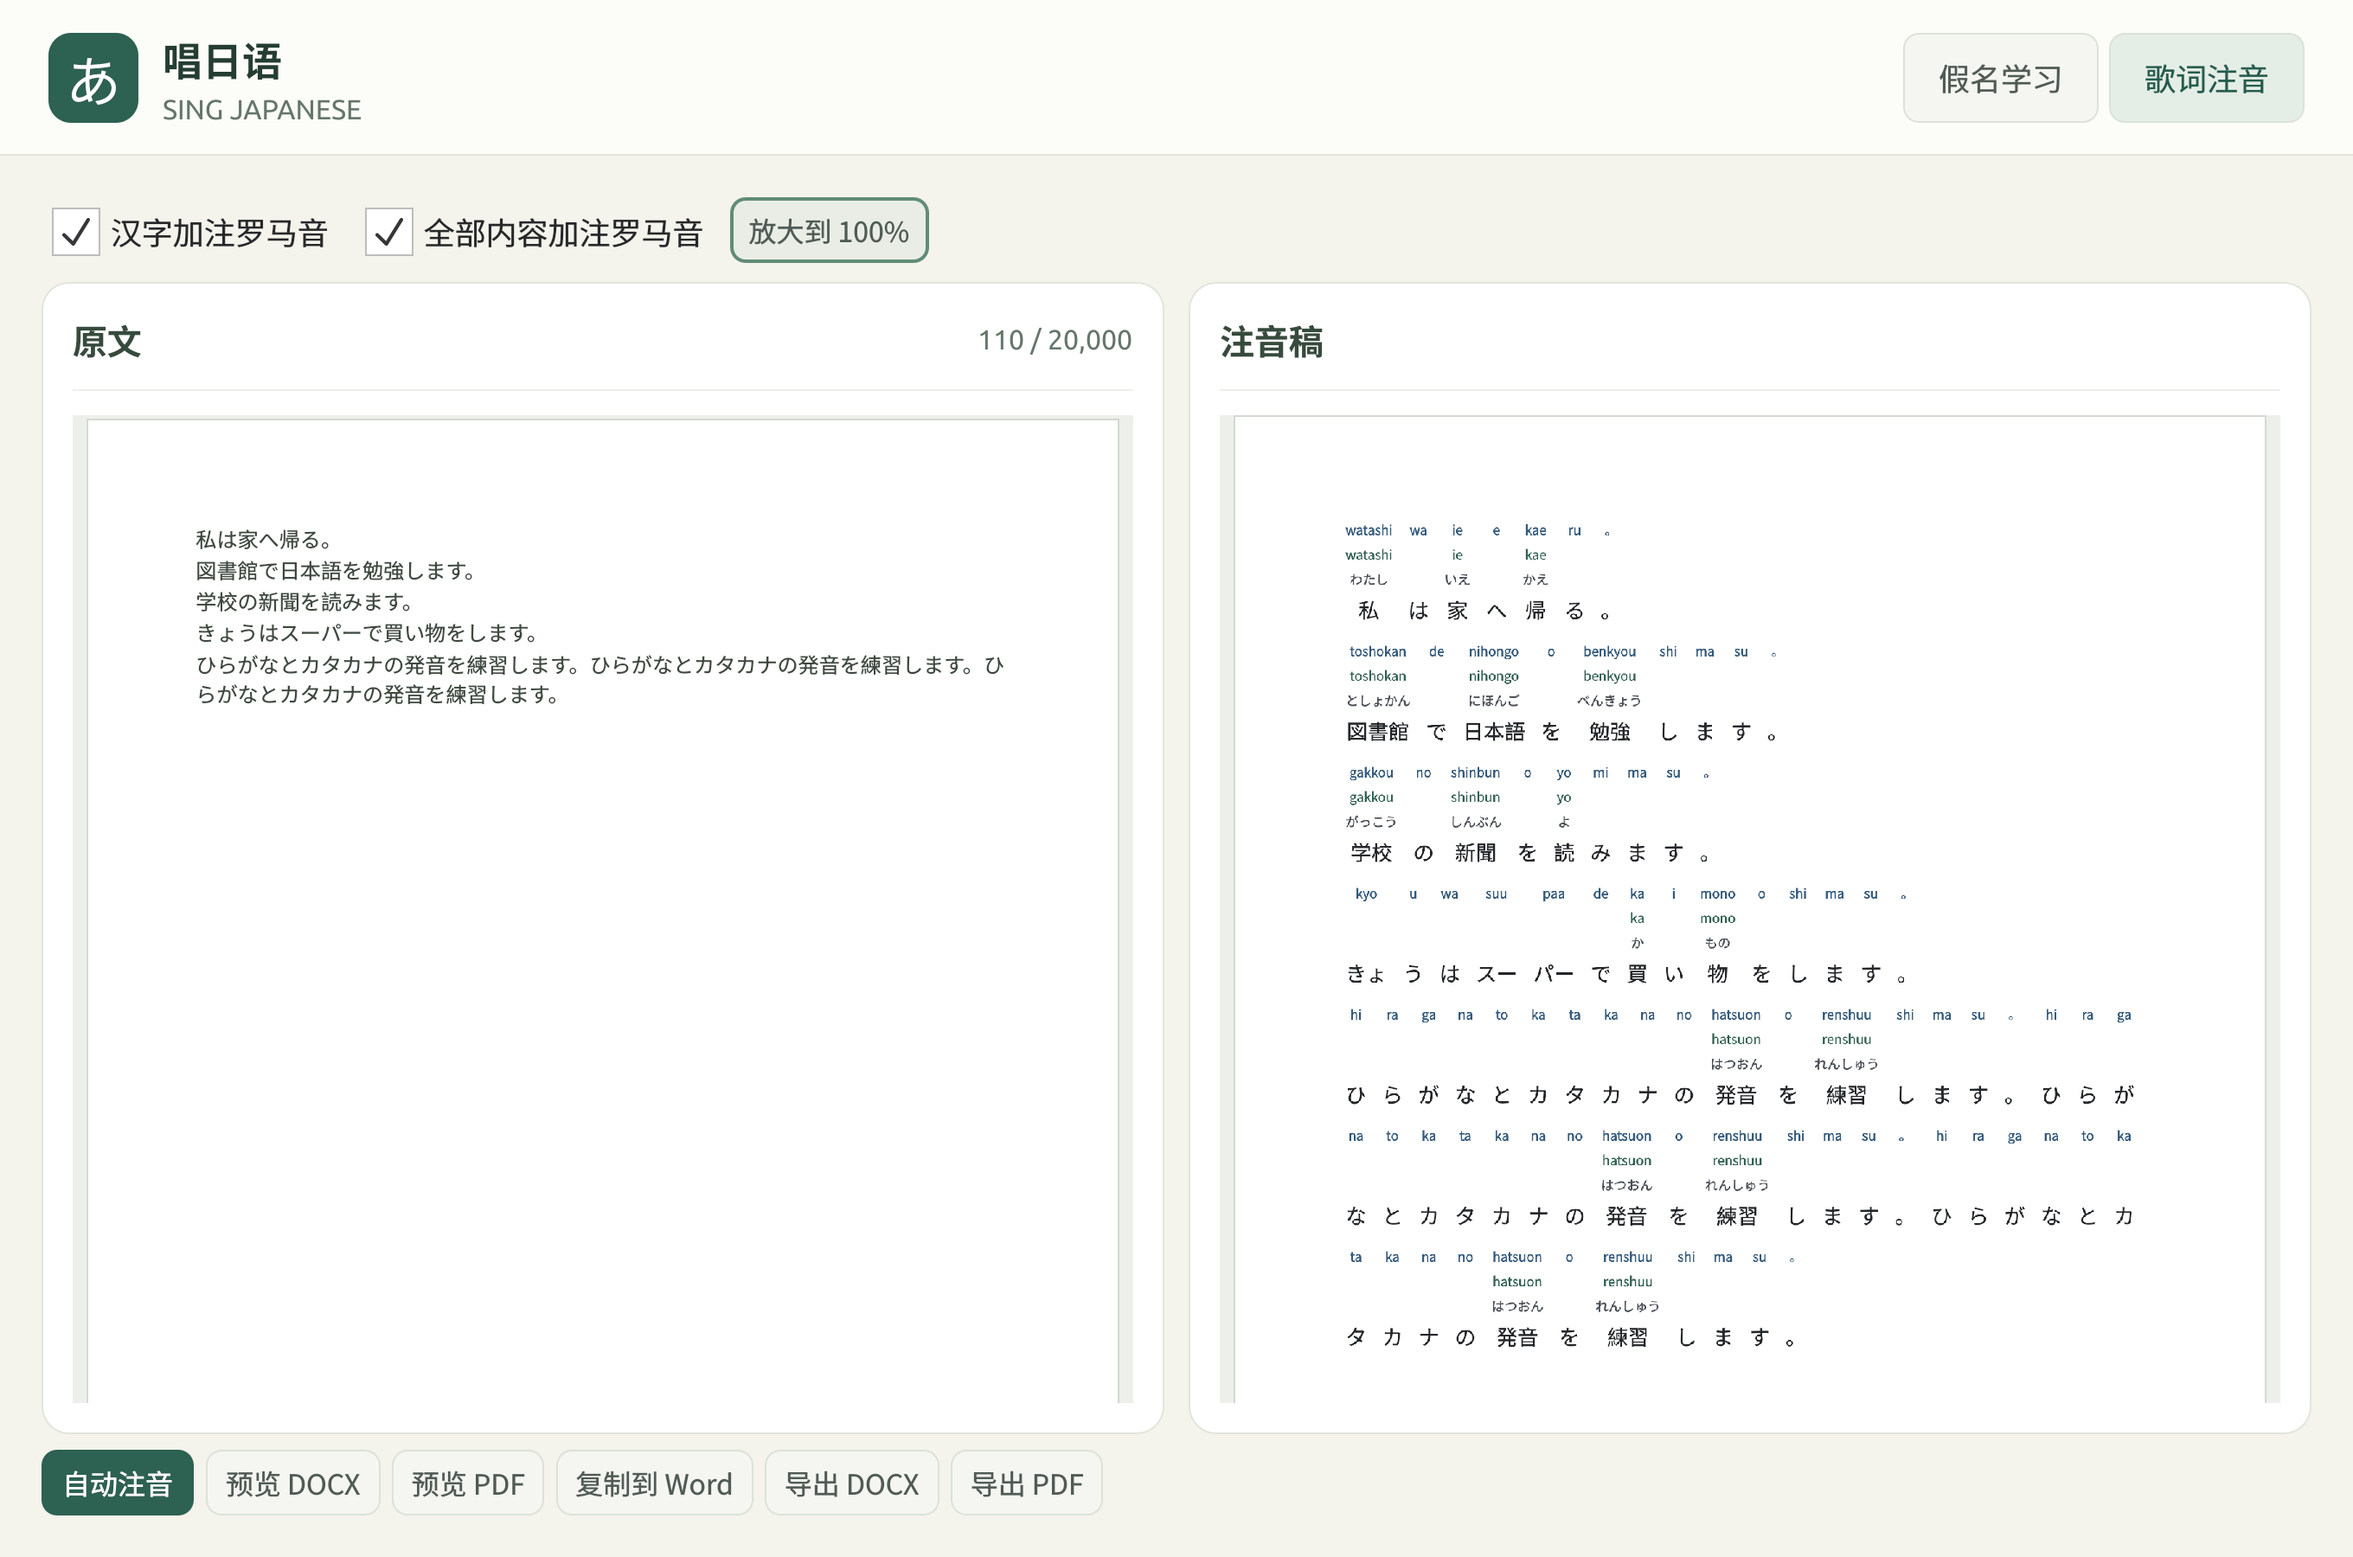
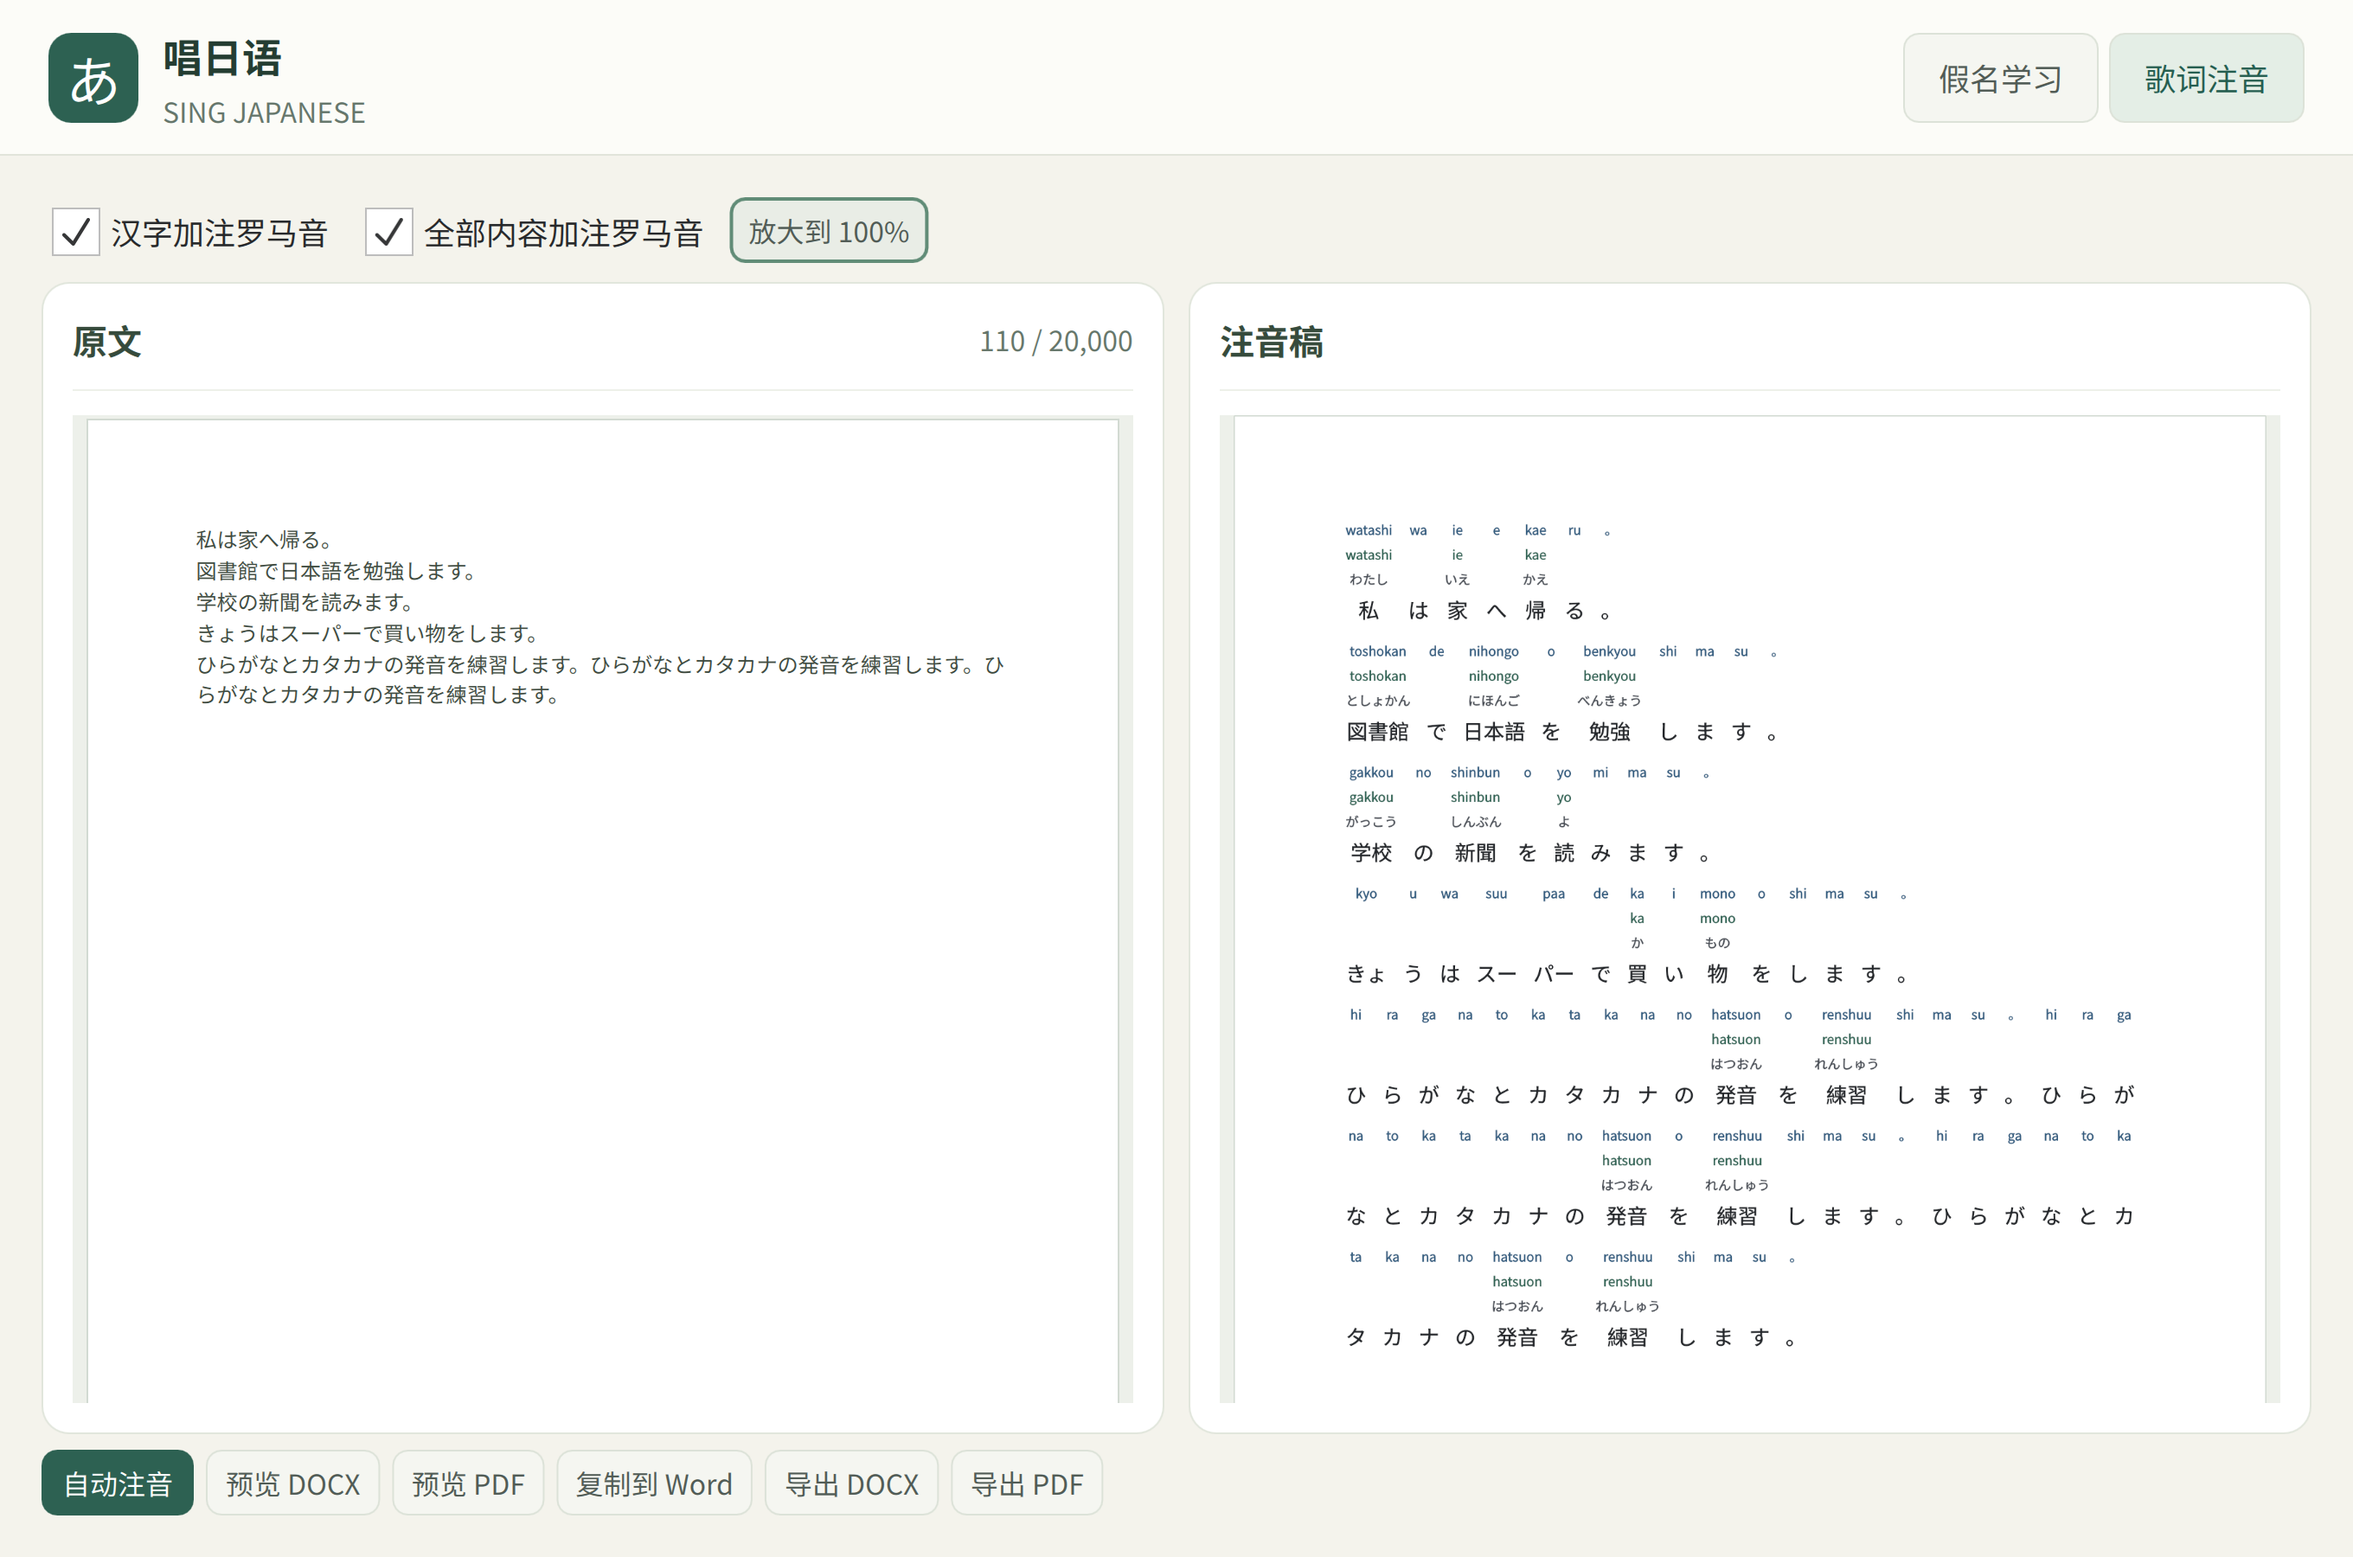
Keep the full kana chart readable with native Windows font metrics
Reclaim short-screen padding without shrinking kana, avoid a detail-panel sizing loop, and test with the application font. Refresh real application screenshots.

diff --git a/app/qml/KanaPage.qml b/app/qml/KanaPage.qml
@@ -7,8 +7,8 @@ Item {
     objectName: "kanaPage"
     property real uiScale: 1
     property bool showRomaji: true
-    readonly property int margin: height < 650 ? 12 : 16
-    readonly property int gap: Math.round(12 * uiScale)
+    readonly property int margin: height < 650 ? 8 : 16
+    readonly property int gap: Math.round((height < 650 ? 8 : 12) * uiScale)
 
     ColumnLayout {
         anchors.fill: parent
@@ -162,7 +162,8 @@ Item {
         Rectangle {
             objectName: "pronunciationDetails"
             Layout.fillWidth: true
-            Layout.preferredHeight: Math.max(64 * page.uiScale, detailRow.implicitHeight + 20)
+            Layout.preferredHeight: Math.max(64 * page.uiScale, selectedCharacter.implicitHeight + 20,
+                replay.implicitHeight + 20, detailNote.implicitHeight + 20)
             radius: 12; color: "#e9eee2"; border.color: "#dce4d3"
             RowLayout {
                 id: detailRow
@@ -170,8 +171,9 @@ Item {
                 anchors.margins: 10
                 spacing: page.gap
                 Text {
+                    id: selectedCharacter
                     text: backend.selected.character
-                    font.pixelSize: Math.round(40 * page.uiScale); color: "#2e5340"
+                    font.pixelSize: Math.round((page.height < 650 ? 32 : 40) * page.uiScale); color: "#2e5340"
                 }
                 Text {
                     objectName: "selectedRomaji"
@@ -184,12 +186,14 @@ Item {
                     color: "#5e735f"; font.pixelSize: Math.round(16 * page.uiScale)
                 }
                 ActionButton {
+                    id: replay
                     objectName: "replayButton"
                     primary: true
                     text: backend.playing ? "正在播放…" : "播放原音"
                     onClicked: backend.replay()
                 }
                 Text {
+                    id: detailNote
                     Layout.fillWidth: true
                     Layout.minimumWidth: 0
                     text: backend.selected.note

diff --git a/tests/test_annotator.cpp b/tests/test_annotator.cpp
@@ -302,6 +302,7 @@ int main(int argc, char **argv)
     QCoreApplication::setAttribute(Qt::AA_UseHighDpiPixmaps);
     QApplication application(argc, argv);
     require(loadBundledFont(), "bundled Japanese font must load");
+    application.setFont(QFont("Noto Sans CJK JP", 10));
     QTemporaryDir directory;
     require(directory.isValid(), "temporary directory must be created");
     qputenv("XDG_CACHE_HOME", directory.path().toUtf8());

diff --git a/.github/release-notes/v0.3.1.md b/.github/release-notes/v0.3.1.md
@@ -21,6 +21,7 @@ Windows / macOS 录音使用 PCM WAV，避免依赖额外的 Ogg 解码器。Lin
 - 增加打包后启动、词典注音、PDF / DOCX 导出与音频服务冒烟测试。
 - Windows 支持导出 DOCX 到中文、日文等 Unicode 目录。
 - Windows 便携包在中文目录中完成打包与启动验证，可解压到含中文的路径。
+- 针对小屏幕与 Windows 字体度量压缩留白，保持 71 个假名同屏且文字不被裁切。
 - 保留 71 个假名同屏学习、独立叠加的罗马音层、清晰留白与 A4 文档预览导出功能。
 
 ### 安全提示与已知限制
